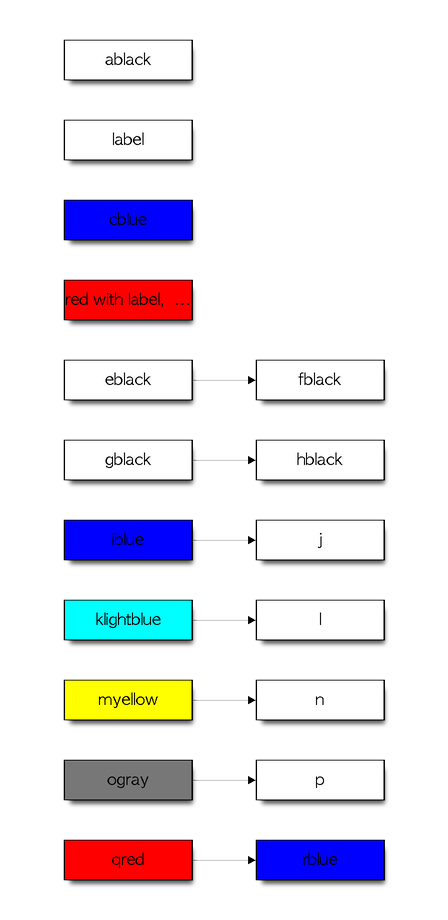
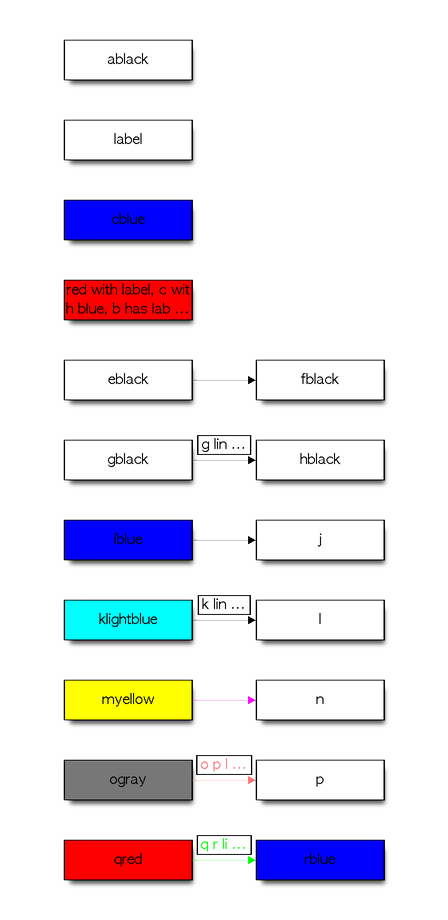
Block diag tests rerun

diff --git a/generators/blockdiag.js b/generators/blockdiag.js
@@ -9,7 +9,7 @@
 //flowchart.loopin,flowchart.loopout
 
 function blockdiag(yy) {
-    yy.result("blockdiag{\n default_fontsize = 16");
+    yy.result("blockdiag{\n default_fontsize = 14");
     var r = getGraphRoot(yy);
     if (r.getDirection() === "portrait") {
         yy.result("  orientation=portrait");
@@ -37,9 +37,17 @@ function blockdiag(yy) {
             }
             yy.result("  }");
         } else {
+        	//dotted,dashed,solid
+        	//NOT invis,bold,rounded,diagonals
             //ICON does not work, using background
+            var style=getAttrFmt(o, 'style', ',style="{0}"');
+            if (style!="" && style.match(/(dotted|dashed|solid)/)==null){
+            	style="";
+            }
+
             var s = getAttrFmt(o, 'color', ',color="{0}"') +
                 getAttrFmt(o, 'image', ',background="icons{0}"') +
+                style+
                 getShape(shapes.blockdiag, o.shape, ',shape="{0}"') +
                 getAttrFmt(o, 'label', ',label="{0}"');
             if (s.trim() != "")
@@ -49,7 +57,21 @@ function blockdiag(yy) {
     }
     for (var i in yy.LINKS) {
         var l = yy.LINKS[i];
-        yy.result("  " + l.left.getName() + " -> " + l.right.getName() + ";");
+        var t="";
+        if (l.linkType.indexOf(".") !== -1) {
+            t += ',style="dotted" ';
+        } else if (l.linkType.indexOf("-") !== -1) {
+            t += ',style="dashed" ';
+        }
+		var lbl=getAttrFmt(l, 'label', ',label = "{0}"'+
+			getAttrFmt(l,['color','textcolor'],'textcolor="{0}"'));
+		var color=getAttrFmt(l,'color',',color="{0}"');
+		t+=lbl+color;
+		t=t.trim();
+		if (t.substring(0,1)==",") t=t.substring(1).trim();
+		if (t!="")
+			t="["+t+"]";
+        yy.result("  " + l.left.getName() + " -> " + l.right.getName() +t+";");
     }
     yy.result("}");
 }
